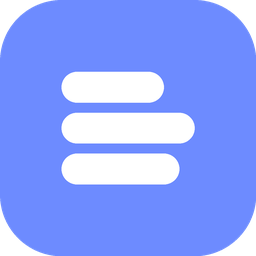
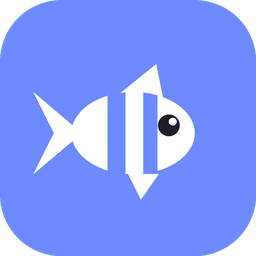
feat: peixe animado na bolha e novo icone (identidade visual do nemo)

Changed region(s): [[0.125, 0.25, 0.7812, 0.7812]]

diff --git a/src/renderer/src/bubble/Bubble.tsx b/src/renderer/src/bubble/Bubble.tsx
@@ -11,19 +11,51 @@ export default function Bubble(): JSX.Element {
     <button
       onClick={() => window.api.window.showPanel()}
       aria-label="Abrir nemo"
-      className="group relative grid size-14 place-items-center rounded-full bg-accent text-accent-foreground shadow-bubble transition-transform hover:scale-105 active:scale-95"
+      className="group relative grid size-14 place-items-center rounded-full bg-accent shadow-bubble transition-transform hover:scale-105 active:scale-95"
     >
-      <svg viewBox="0 0 100 100" className="size-7" fill="#ffffff" aria-hidden>
-        <rect x="24" y="28" width="40" height="12" rx="6" />
-        <rect x="24" y="44" width="52" height="12" rx="6" />
-        <rect x="24" y="60" width="46" height="12" rx="6" />
-      </svg>
+      {/* The "water": clips the fish to the circle so it can swim edge to edge. */}
+      <span className="absolute inset-0 overflow-hidden rounded-full">
+        <span className="fish-swim absolute inset-0 grid place-items-center">
+          <Fish />
+        </span>
+      </span>
+
       <span className="pointer-events-none absolute inset-0 rounded-full ring-2 ring-accent" />
+
       {count > 0 && (
         <span className="absolute -right-1 -top-1 grid size-5 place-items-center rounded-full bg-panel text-[10px] font-bold text-accent ring-2 ring-background">
           {count}
         </span>
       )}
     </button>
+  )
+}
+
+/** A cute clownfish, facing right (the swim animation flips it when turning). */
+function Fish(): JSX.Element {
+  return (
+    <svg viewBox="0 0 64 64" className="fish size-9" aria-hidden>
+      <defs>
+        <clipPath id="nemoBody">
+          <ellipse cx="31" cy="33" rx="15" ry="10" />
+        </clipPath>
+      </defs>
+
+      <g className="fish__tail">
+        <path d="M16 33 L4 23 L9 33 L4 43 Z" fill="#ffffff" />
+      </g>
+
+      <g className="fish__body">
+        <polygon points="27,24 37,16 39,25" fill="#ffffff" />
+        <polygon points="30,42 37,42 33,48" fill="#ffffff" />
+        <ellipse cx="31" cy="33" rx="15" ry="10" fill="#ffffff" />
+        <g clipPath="url(#nemoBody)">
+          <rect x="26" y="20" width="4.5" height="26" fill="var(--accent)" />
+          <rect x="35" y="20" width="3.5" height="26" fill="var(--accent)" />
+        </g>
+        <circle cx="40" cy="31" r="2.6" fill="#1d1f27" />
+        <circle cx="41" cy="30" r="0.9" fill="#ffffff" />
+      </g>
+    </svg>
   )
 }

diff --git a/src/renderer/src/bubble/bubble.css b/src/renderer/src/bubble/bubble.css
@@ -11,3 +11,69 @@ body,
   align-items: center;
   justify-content: center;
 }
+
+/* --- Swimming fish --- */
+
+/* Swims across the circle and back, flipping to face the direction of travel. */
+.fish-swim {
+  animation: nemo-swim 6s ease-in-out infinite;
+}
+
+/* Gentle vertical bob, slightly out of sync with the swim for a lively feel. */
+.fish {
+  animation: nemo-bob 2.3s ease-in-out infinite;
+}
+
+/* Tail wag, pivoting where it meets the body. */
+.fish__tail {
+  transform-box: fill-box;
+  transform-origin: right center;
+  animation: nemo-wag 0.55s ease-in-out infinite;
+}
+
+@keyframes nemo-swim {
+  0% {
+    transform: translateX(-9px) scaleX(1);
+  }
+  44% {
+    transform: translateX(9px) scaleX(1);
+  }
+  50% {
+    transform: translateX(9px) scaleX(-1);
+  }
+  94% {
+    transform: translateX(-9px) scaleX(-1);
+  }
+  100% {
+    transform: translateX(-9px) scaleX(1);
+  }
+}
+
+@keyframes nemo-bob {
+  0%,
+  100% {
+    transform: translateY(1px);
+  }
+  50% {
+    transform: translateY(-1px);
+  }
+}
+
+@keyframes nemo-wag {
+  0%,
+  100% {
+    transform: rotate(-11deg);
+  }
+  50% {
+    transform: rotate(9deg);
+  }
+}
+
+/* Respect reduced-motion preferences: keep the fish, drop the swimming. */
+@media (prefers-reduced-motion: reduce) {
+  .fish-swim,
+  .fish,
+  .fish__tail {
+    animation: none;
+  }
+}
